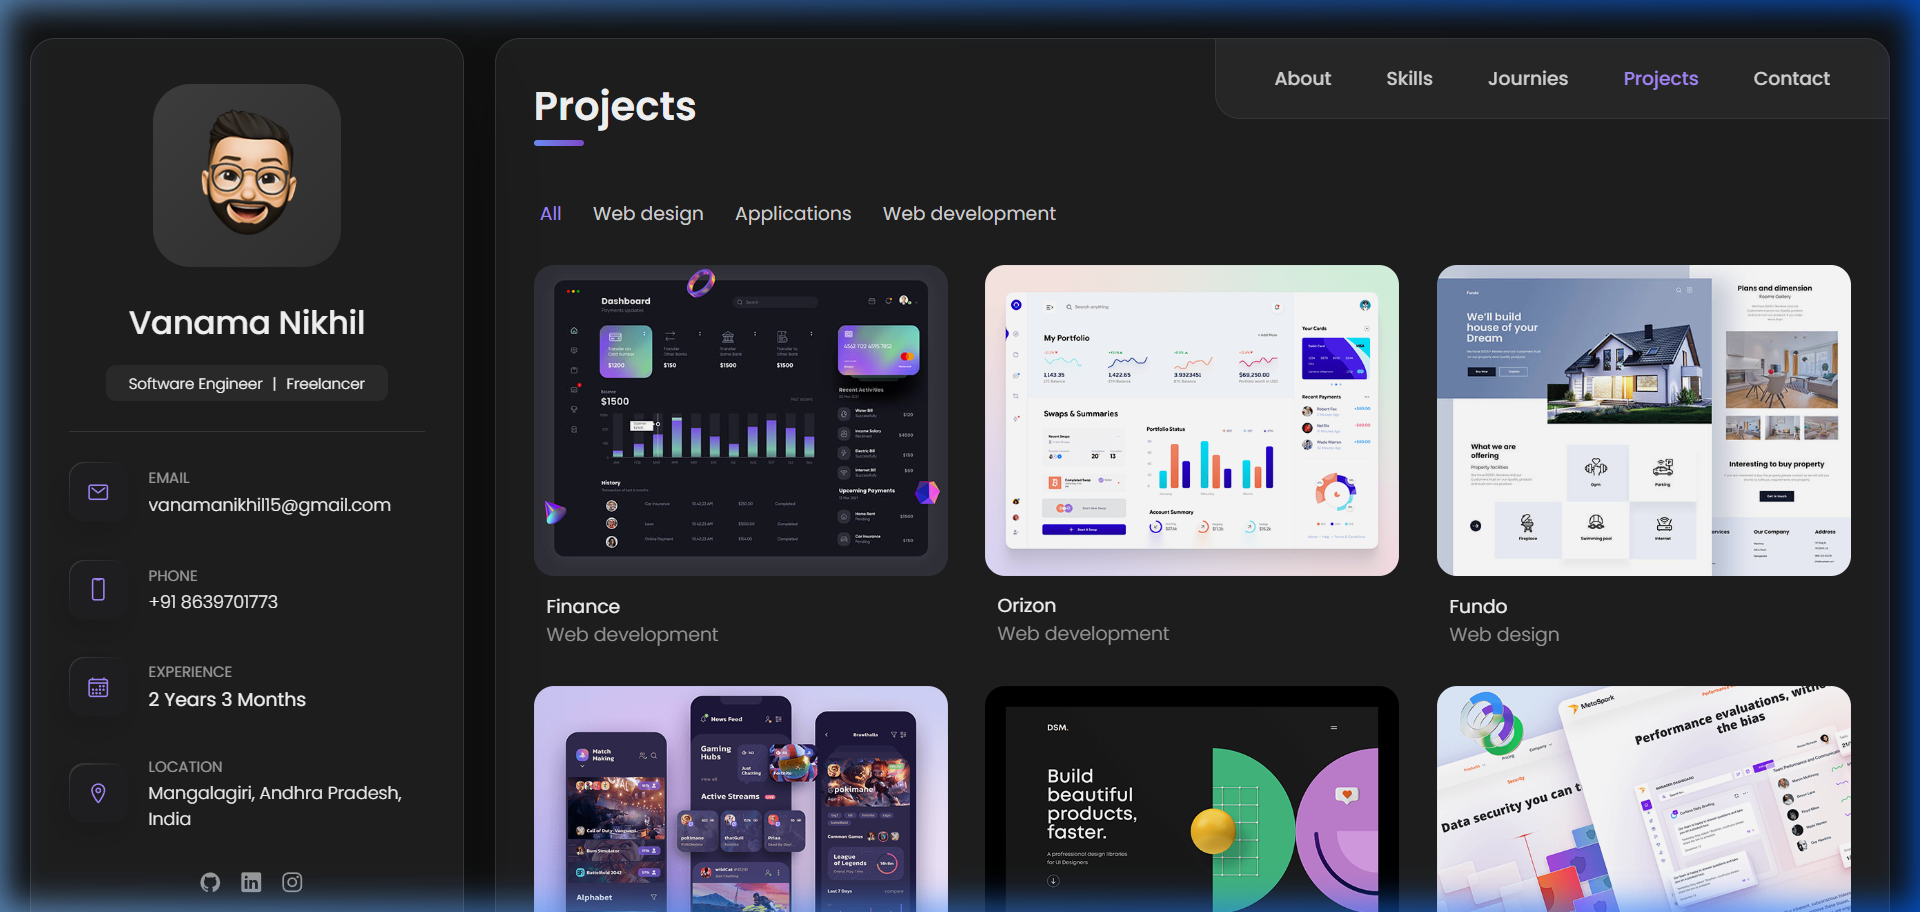
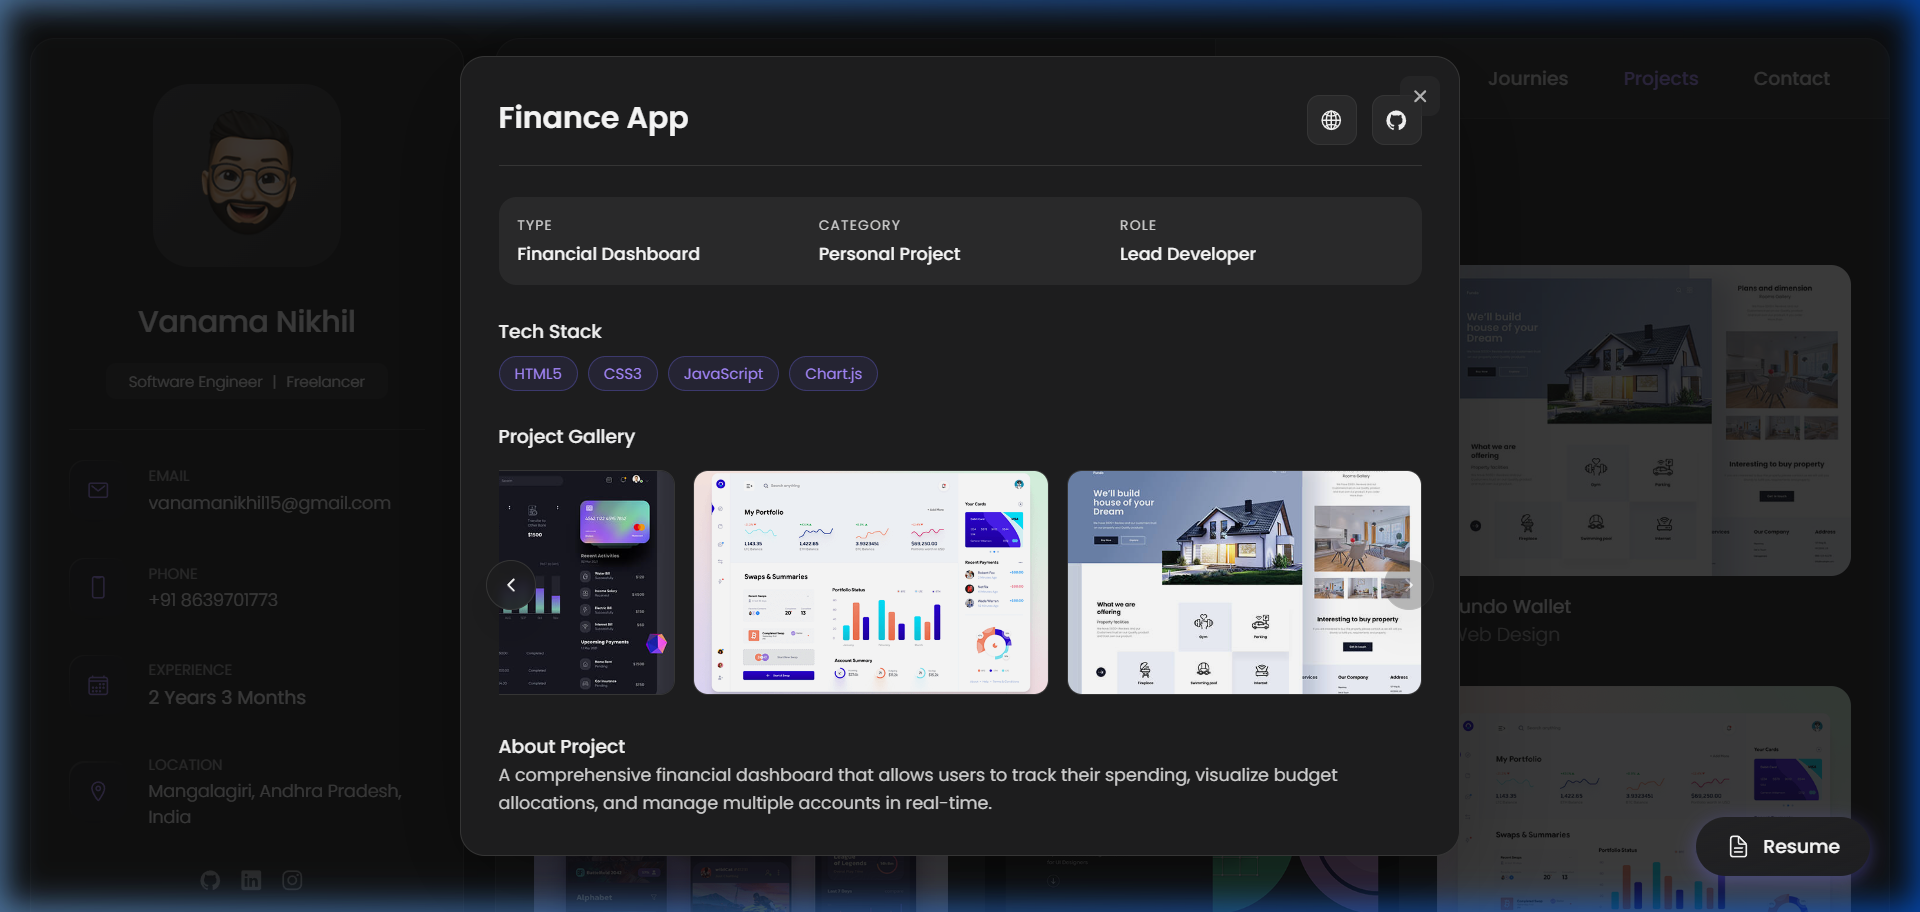
Updated readme file

diff --git a/README.md b/README.md
@@ -6,7 +6,9 @@ A modern, responsive, and visually stunning professional portfolio website hoste
 
 ## 🚀 Key Features & Customizations
 
-- **Dynamic Data Architecture:** The core content of the site (Services, Skills, Timelines, Certifications, etc.) is entirely decoupled from the HTML structure. Data is managed securely in `assets/js/data.js` and rendered dynamically using HTML5 `<template>` cloning, making content updates effortless.
+- **Dynamic Data Architecture:** The core content of the site (Services, Skills, Timelines, Certifications, Projects, etc.) is entirely decoupled from the HTML structure. Data is managed securely in `assets/js/data.js` and rendered dynamically using HTML5 `<template>` cloning, making content updates effortless.
+- **Filterable Project Gallery:** A premium, filterable grid for projects (Web design, Websites, Applications, SAP) with a dedicated details modal. The modal features an image carousel (2.5 row layout), technology badges, and direct links to GitHub/Live demos.
+- **Session-based Navigation:** Uses `sessionStorage` to intelligently persist the active page during browser refreshes while ensuring a fresh start ("About" page) on new sessions or tab reopens.
 - **Interactive 3D Philosophy Globe:** A custom CSS/JS implementation featuring a mouse-tracking, 3D tilting globe effect in the Philosophy wrapper.
 - **Serverless AJAX Contact Form:** Fully functional contact form integrated with Formspree via the `fetch` API. It validates inputs manually (min-length, exact 10-digit boundaries for phone numbers) and processes submissions without page reloads.
 - **Custom Toast Notifications:** Responsive, animated Toast UI system (dropping down from the top with glowing violet drop-shadows) to reflect success or validation errors upon form interaction.
@@ -31,10 +33,15 @@ The portfolio is built with a custom-designed single-page architecture that prio
 
 ### 🏗 Data-Driven UI (The Template Engine)
 Instead of hardcoding a massive `index.html` file, most repetitive structures utilize the `<template>` specification:
-1. All unique content (job titles, descriptions, skills arrays, etc.) is strictly isolated in `assets/js/data.js`.
+1. All unique content (job titles, descriptions, project metadata, skills arrays, etc.) is strictly isolated in `assets/js/data.js`.
 2. `script.js` clones semantic HTML snippets locally for each section.
-3. Need to add a new project or update a certification? **You never need to touch the HTML.** Just add an object to the array in `data.js` and reload. 
+3. **Projects Refactor:** Project items use a specialized template with an "eye" icon and a mobile-optimized "Project Details" link. The project details modal dynamically populates its carousel and action buttons based on the `projectsData` model.
 
+### 🧭 Navigation & Session Persistence
+The single-page routing logic is enhanced with `sessionStorage`:
+- **State Persistence:** When a user navigates, the active page ID is saved to `sessionStorage`.
+- **Intelligent Load:** On page refresh, the script checks for a saved state to restore the user's position.
+- **New Session Reset:** Since `sessionStorage` is unique to the browser tab, opening the site in a new tab always resets the navigation to the initial "About" page.
 ### 📡 Contact Form System
 Built carefully to prevent spam or accidental missends:
 - Form button states visually lockdown upon submission. 
@@ -100,6 +107,11 @@ Comprehensive technical expertise breakdown constructed by nested loops sorting 
 Clean timelines capturing historical Professional Experience, Education, and custom "Bento-Box" Internships referencing external Document PDFs.
 
 ![Journies Section](./assets/images/screenshots/journies_section.png)
+
+### 🎨 Projects
+Filterable project portfolio with dynamic category switching. Detailed modals include high-res image carousels and direct repository links.
+
+![Projects Section](./assets/images/screenshots/projects_section.png)
 
 ### 📧 Contact (AJAX & Toasts)
 Robust verification input fields communicating instantly with isolated REST endpoints via JS interceptors.
